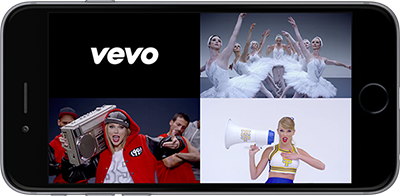
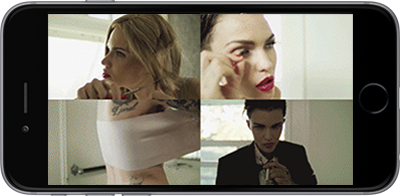
Animated home

diff --git a/views/home.html b/views/home.html
@@ -45,7 +45,10 @@
     <div><img style="width:100px" src="/static/img/siz-white.png"></div>
     <div class="sub-logo">Video strips</div>
     <div class="tagline">The fastest way to discover videos</div>
-    <div class="iphone-preview"><img src="/static/img/iphone-preview.png"></div>
+    <div class="iphone-preview">
+      <img src="/static/img/iphone-preview.png" onload="document.querySelector('.strip-preview').src='/static/img/strip-preview.gif'">
+      <img class="strip-preview" src="http://upload.wikimedia.org/wikipedia/commons/c/ca/1x1.png">
+    </div>
     <div class="app-downloads">
       <a target="_blank" href="http://ad.apps.fm/-9Jjy4vqyRkZhctV2x6zXfE7og6fuV2oOMeOQdRqrE3ycgNsA4xKbwTdloUGRGypHRmKHsREbVOFLMRngjJC1w" class="app-download ios"></a>
       <a  target="_blank" href="http://siz-app.launchrock.com/" class="app-download android"></a>

diff --git a/static/src/scss/home/main.scss b/static/src/scss/home/main.scss
@@ -22,7 +22,15 @@ body {
 .iphone-preview {
   box-sizing: border-box;
   padding: 0 20px;
-  min-width: 100%;
+  display: inline-block;
+  max-width: 100%;
+  .strip-preview {
+    position: absolute;
+    top: 6.8%;
+    left: 15.5%;
+    height: 85.5%;
+    width: 69.2%;
+  }
 }
 
 .sub-logo {
@@ -56,7 +64,6 @@ body {
 
 .oblique-top-wrapper {
   height: 633px;
-  position: relative;
   overflow: hidden;
 }
 
@@ -122,7 +129,6 @@ body {
 }
 
 .oblique-bottom-wrapper {
-  position: relative;
   height: 60px;
   overflow: hidden;
 }
@@ -151,7 +157,6 @@ body {
 
 .official-pages {
   z-index: 1;
-  position: relative;
   height: 0px;
   top: -15px;
   a, img {

diff --git a/gulpfile.js b/gulpfile.js
@@ -58,7 +58,7 @@ gulp.task('build-css', ['copy-img'], function () {
 });
 
 gulp.task('copy-img', function () {
-  return gulp.src(['static/src/img/**/*.{png,svg,ico,jpg}', '!static/src/img/sprite/**']).
+  return gulp.src(['static/src/img/**/*.{png,svg,ico,jpg,gif}', '!static/src/img/sprite/**']).
   pipe(gulp.dest('static/dist/img'));
 });
 

diff --git a/static/src/scss/lib/buttons.scss b/static/src/scss/lib/buttons.scss
@@ -25,7 +25,6 @@ $color-valid: #2DD25F;
   color: #fff;
   text-shadow: 1px 1px 1px rgba(0,0,0,0.3);
   padding: 0 13px;
-  position: relative;
   background: linear-gradient(-45deg,
     rgba(0,0,0,0) 0%,
     rgba(0,0,0,0) 42%,

diff --git a/static/src/scss/lib/page-nav.scss b/static/src/scss/lib/page-nav.scss
@@ -2,7 +2,6 @@
 
 .page-nav {
   font-size: 14px;
-  position: relative;
   text-align: center;
   margin: 10px;
   padding-bottom: 20px;
